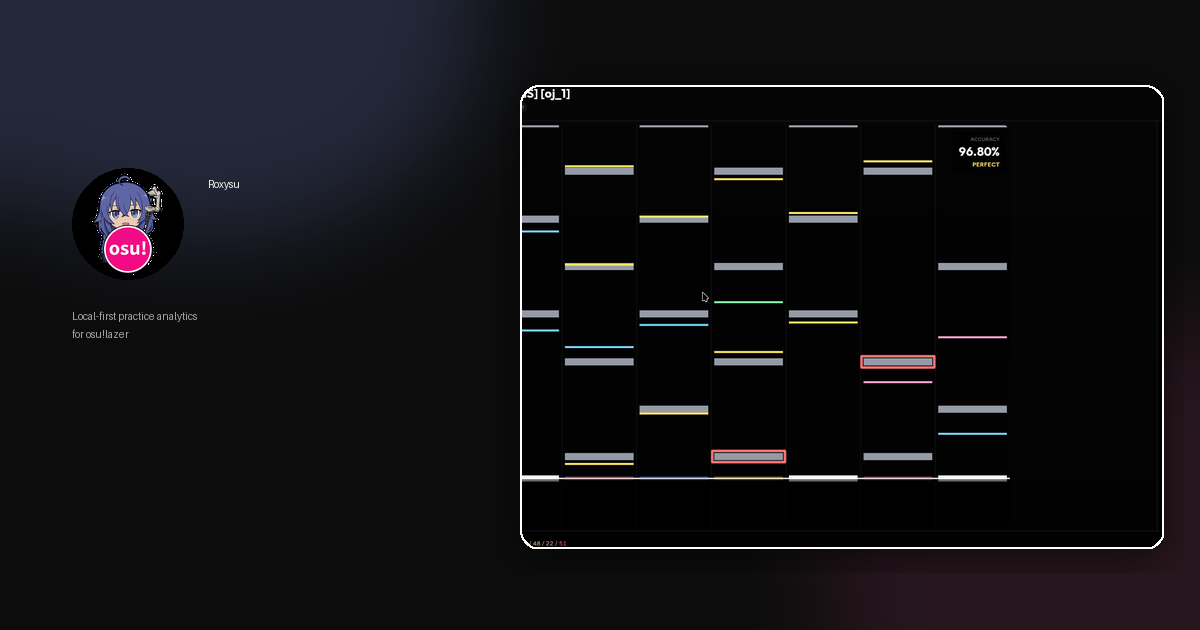
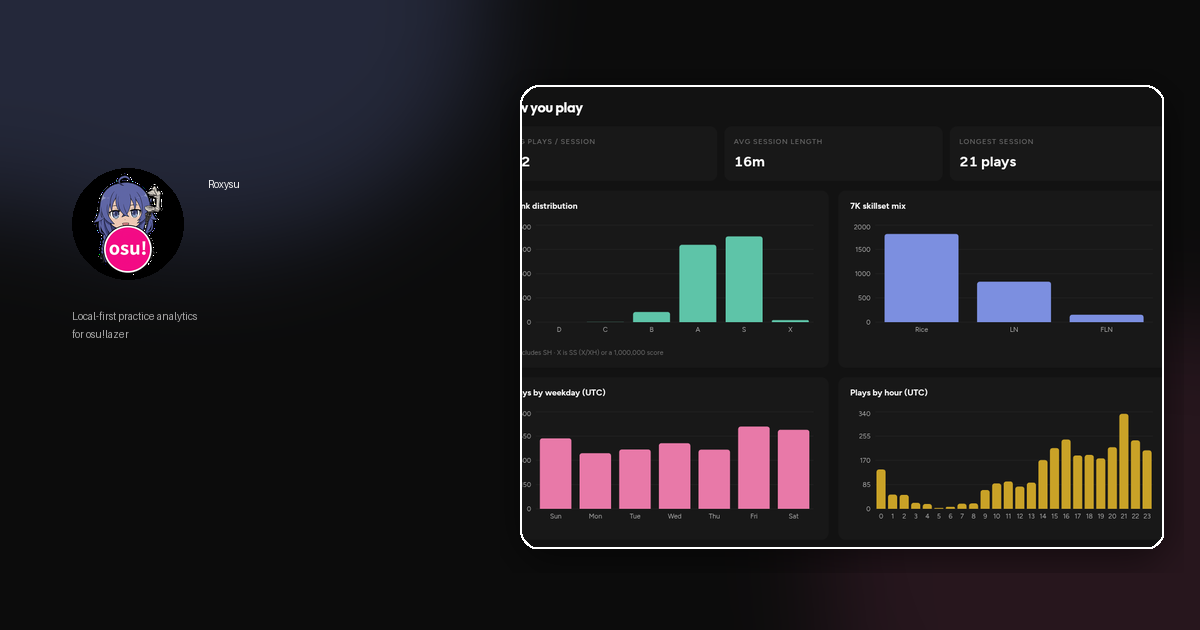
Update GitHub Actions workflow and enhance documentation assets
- Changed permissions in the `desktop-win.yml` workflow from read to write for better artifact management.
- Added a new job to attach Windows installer files to GitHub releases, improving deployment processes.
- Updated Open Graph metadata in `index.html` to reflect changes in the application, enhancing social media sharing.
- Replaced the screenshot used for the Open Graph image with a new asset for better representation.
- Introduced a new screenshot asset `x.png` to the documentation, improving visual content.

These changes enhance the build and release process while improving the documentation's visibility and presentation.

diff --git a/apps/docs/index.html b/apps/docs/index.html
@@ -28,7 +28,7 @@
     <meta property="og:image:height" content="630" />
     <meta
       property="og:image:alt"
-      content="Roxysu — local-first practice analytics for osu!lazer, with replay analysis preview"
+      content="Roxysu — local-first practice analytics for osu!lazer, with play-style stats preview"
     />
     <meta name="twitter:card" content="summary_large_image" />
     <meta name="twitter:title" content="Roxysu — Local-first practice analytics for osu!lazer" />
@@ -39,7 +39,7 @@
     <meta name="twitter:image" content="https://yon-luc.github.io/Roxysu/assets/og.png" />
     <meta
       name="twitter:image:alt"
-      content="Roxysu — local-first practice analytics for osu!lazer, with replay analysis preview"
+      content="Roxysu — local-first practice analytics for osu!lazer, with play-style stats preview"
     />
     <script type="application/ld+json">
       {

diff --git a/apps/docs/scripts/make-og.py b/apps/docs/scripts/make-og.py
@@ -9,7 +9,7 @@ from PIL import Image, ImageDraw, ImageFilter, ImageFont
 
 ROOT = Path(__file__).resolve().parent.parent
 ASSETS = ROOT / "assets"
-SHOT = ROOT / "screenshots" / "replay-analysis-modal.png"
+SHOT = ROOT / "screenshots" / "x.png"
 OUT = ASSETS / "og.png"
 
 W, H = 1200, 630
@@ -62,24 +62,22 @@ def main() -> None:
     tagline = "Local-first practice analytics\nfor osu!lazer"
     draw.multiline_text((72, 310), tagline, fill="#a7a7a7", font=tag_font, spacing=8)
 
-    # Screenshot panel on the right — full replay UI (playfield + analysis)
+    # Screenshot panel on the right — stats / "How you play"
     shot = Image.open(SHOT).convert("RGB")
     sw, sh = shot.size
-    # Prefer the main content band (skip a bit of bottom chrome)
-    crop = shot.crop((0, int(sh * 0.02), sw, int(sh * 0.88)))
+    crop = shot.crop((0, 0, sw, sh))
     target_w, target_h = 640, 460
     crop_ratio = crop.width / crop.height
     panel_ratio = target_w / target_h
     if crop_ratio > panel_ratio:
         new_h = crop.height
         new_w = int(new_h * panel_ratio)
-        # Bias right so the analysis sidebar stays visible
-        left = min(crop.width - new_w, int((crop.width - new_w) * 0.55))
+        left = (crop.width - new_w) // 2
         crop = crop.crop((left, 0, left + new_w, new_h))
     else:
         new_w = crop.width
         new_h = int(new_w / panel_ratio)
-        top = max(0, int((crop.height - new_h) * 0.15))
+        top = max(0, (crop.height - new_h) // 5)
         crop = crop.crop((0, top, new_w, top + new_h))
     crop = crop.resize((target_w, target_h), Image.Resampling.LANCZOS)
 
